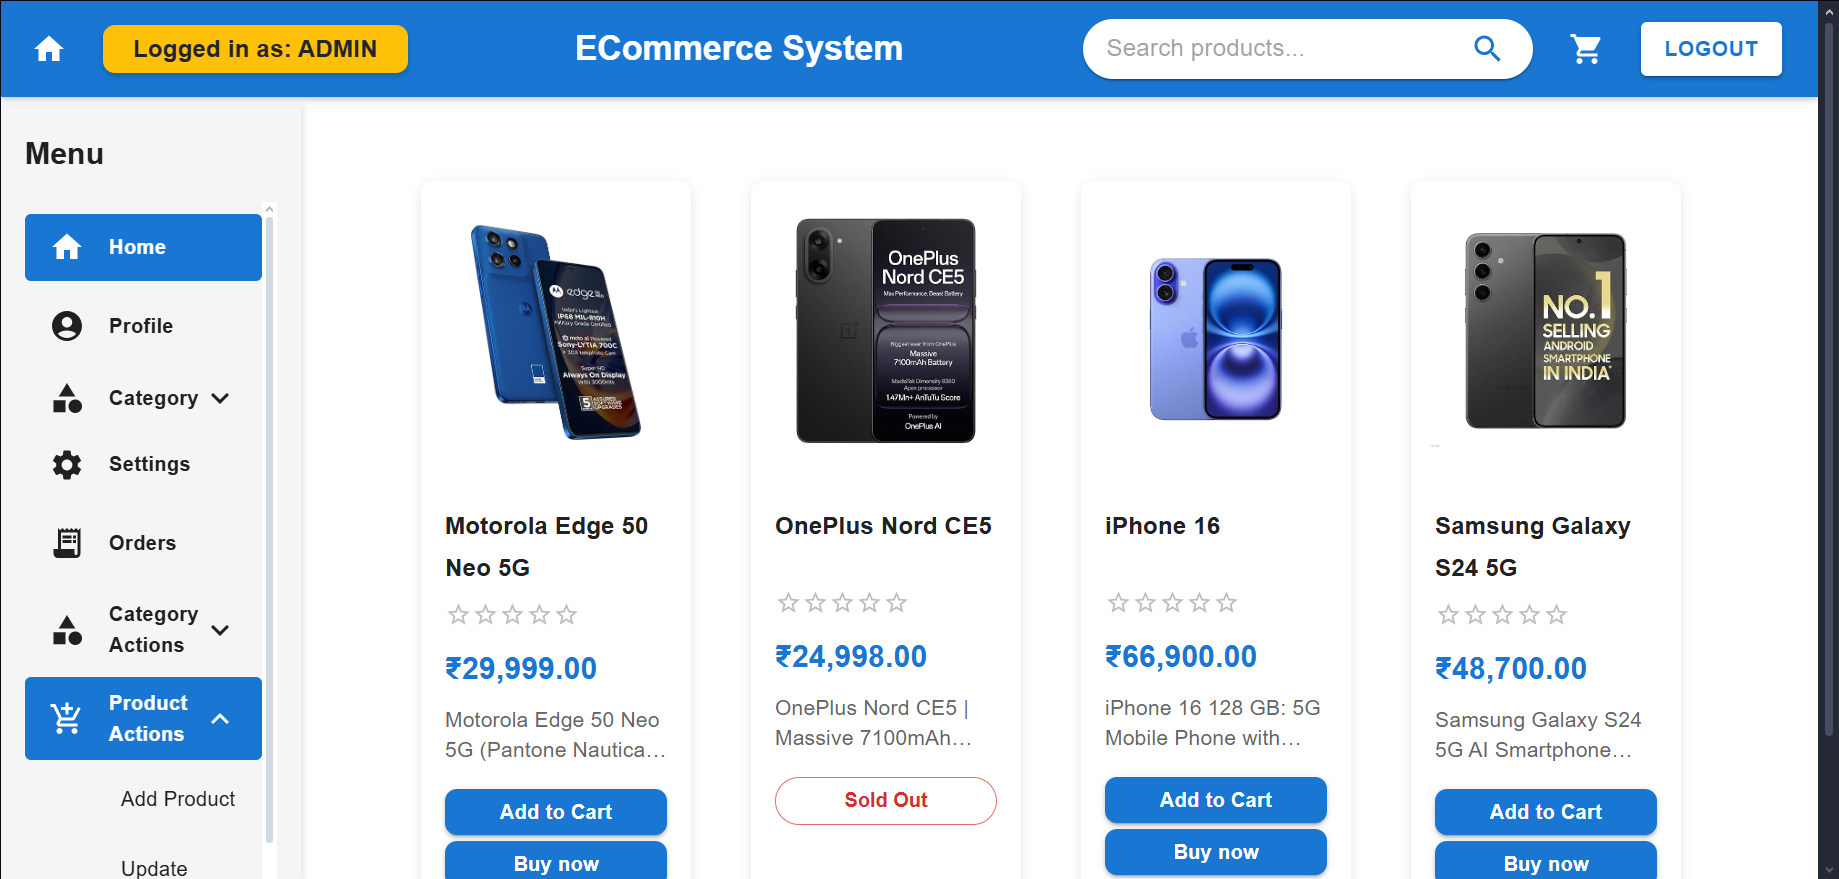
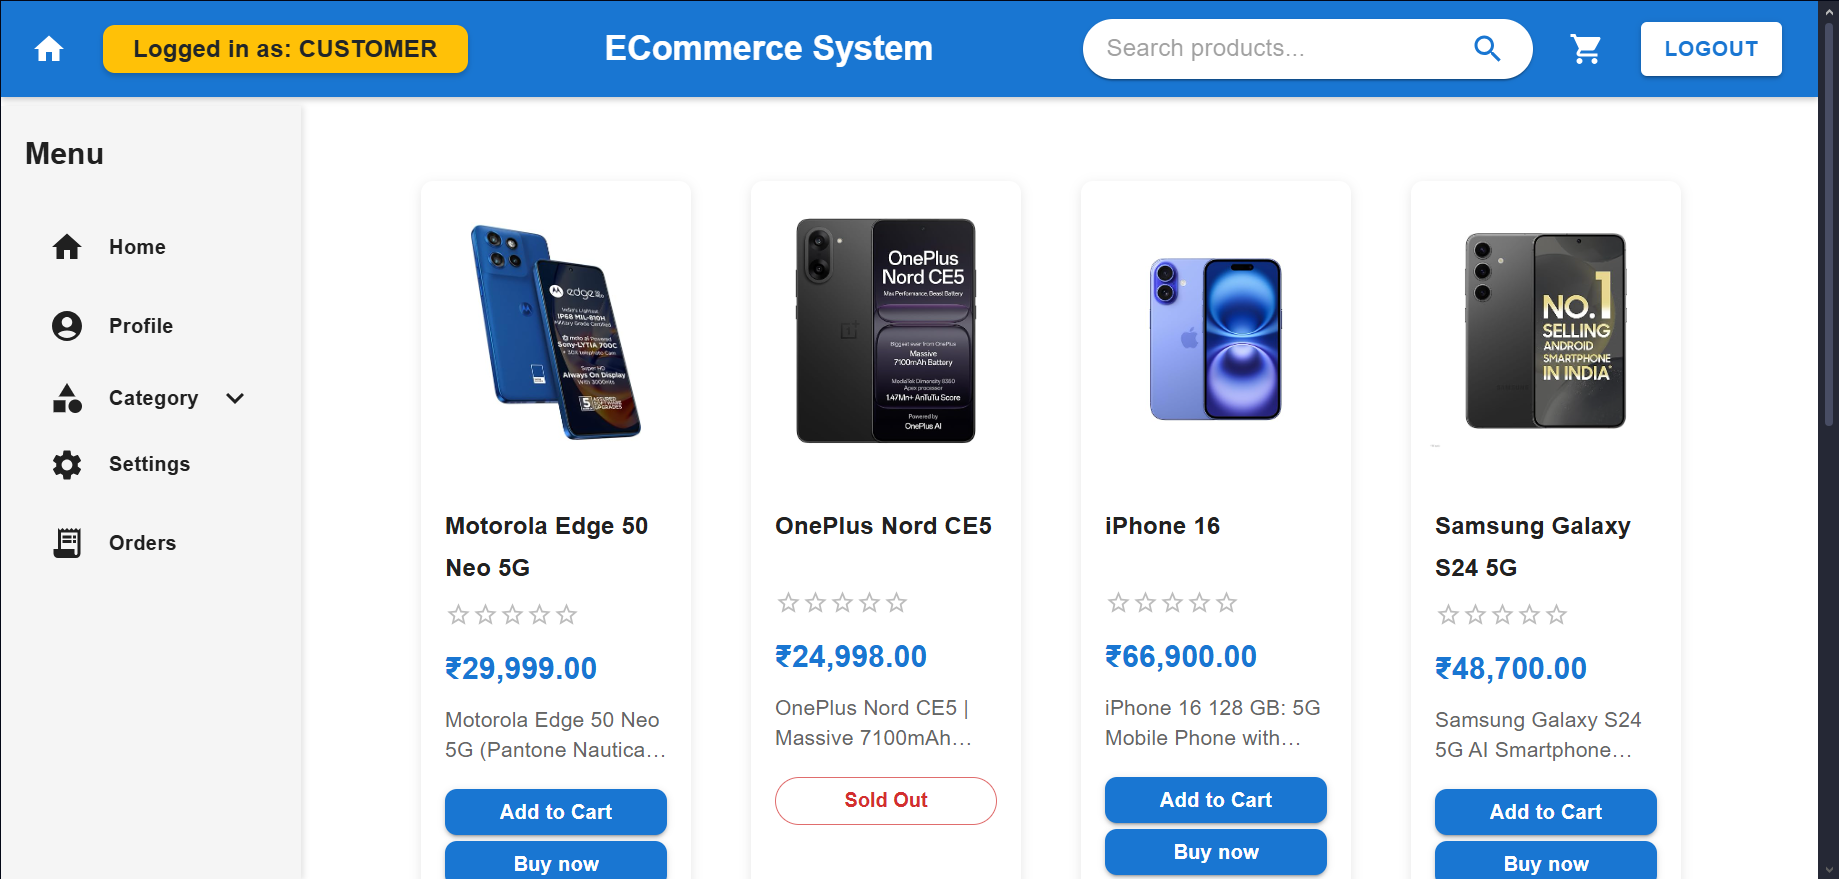
Screenshots added for readme

diff --git a/frontend/src/components/OrderSummary.jsx b/frontend/src/components/OrderSummary.jsx
@@ -41,7 +41,7 @@ const OrderSummary = ({order}) => {
                             <Table size="small">
                                 <TableHead>
                                     <TableRow >
-                                        <TableCell sx={{fontWeight: "bold"}}>Product</TableCell>
+                                        <TableCell sx={{fontWeight: "bold"}} align="left">Product</TableCell>
                                         <TableCell sx={{fontWeight: "bold"}} align="center">Unit Price</TableCell>
                                         <TableCell sx={{fontWeight: "bold"}} align="center">Quantity</TableCell>
                                         <TableCell sx={{fontWeight: "bold"}} align="right">Line Total</TableCell>
@@ -58,10 +58,10 @@ const OrderSummary = ({order}) => {
                                     ))}
 
                                     <TableRow>
-                                        <TableCell colSpan={3} align="right" fontWeight="bold">
+                                        <TableCell colSpan={3} align="right" sx={{fontWeight:"bold"}}>
                                             Total:
                                         </TableCell>
-                                        <TableCell align="right" fontWeight="bold">
+                                        <TableCell align="right" sx={{fontWeight:"bold"}}>
                                             ₹{order.totalPrice}
                                         </TableCell>
                                     </TableRow>

diff --git a/README.md b/README.md
@@ -135,7 +135,7 @@ Step 5 (Optional): Build for production
 
 ### Screenshots
 
-#### Home Page
+#### Home Page - Before login
 ![Home Page](screenshots/home.png)
 
 #### Login Page
@@ -144,7 +144,7 @@ Step 5 (Optional): Build for production
 #### Register Page
 ![Register Page](screenshots/register.png)
 
-#### Product Page
+#### Home Page - After login
 ![Home Page after login](screenshots/home-after-login.png)
 
 #### Product Details Page
@@ -159,8 +159,11 @@ Step 5 (Optional): Build for production
 #### Update Product Admin Page
 ![Update Product - Only Admin](screenshots/update-product-admin.png)
 
-#### Admin Dashboard
-![Admin Dashboard](screenshots/admin-dashboard.png)
+#### User Cart
+![User Cart](screenshots/user-cart.png)
+
+#### User Orders Page
+![User Orders Page](screenshots/user-orders-page.png)
 
 
 
